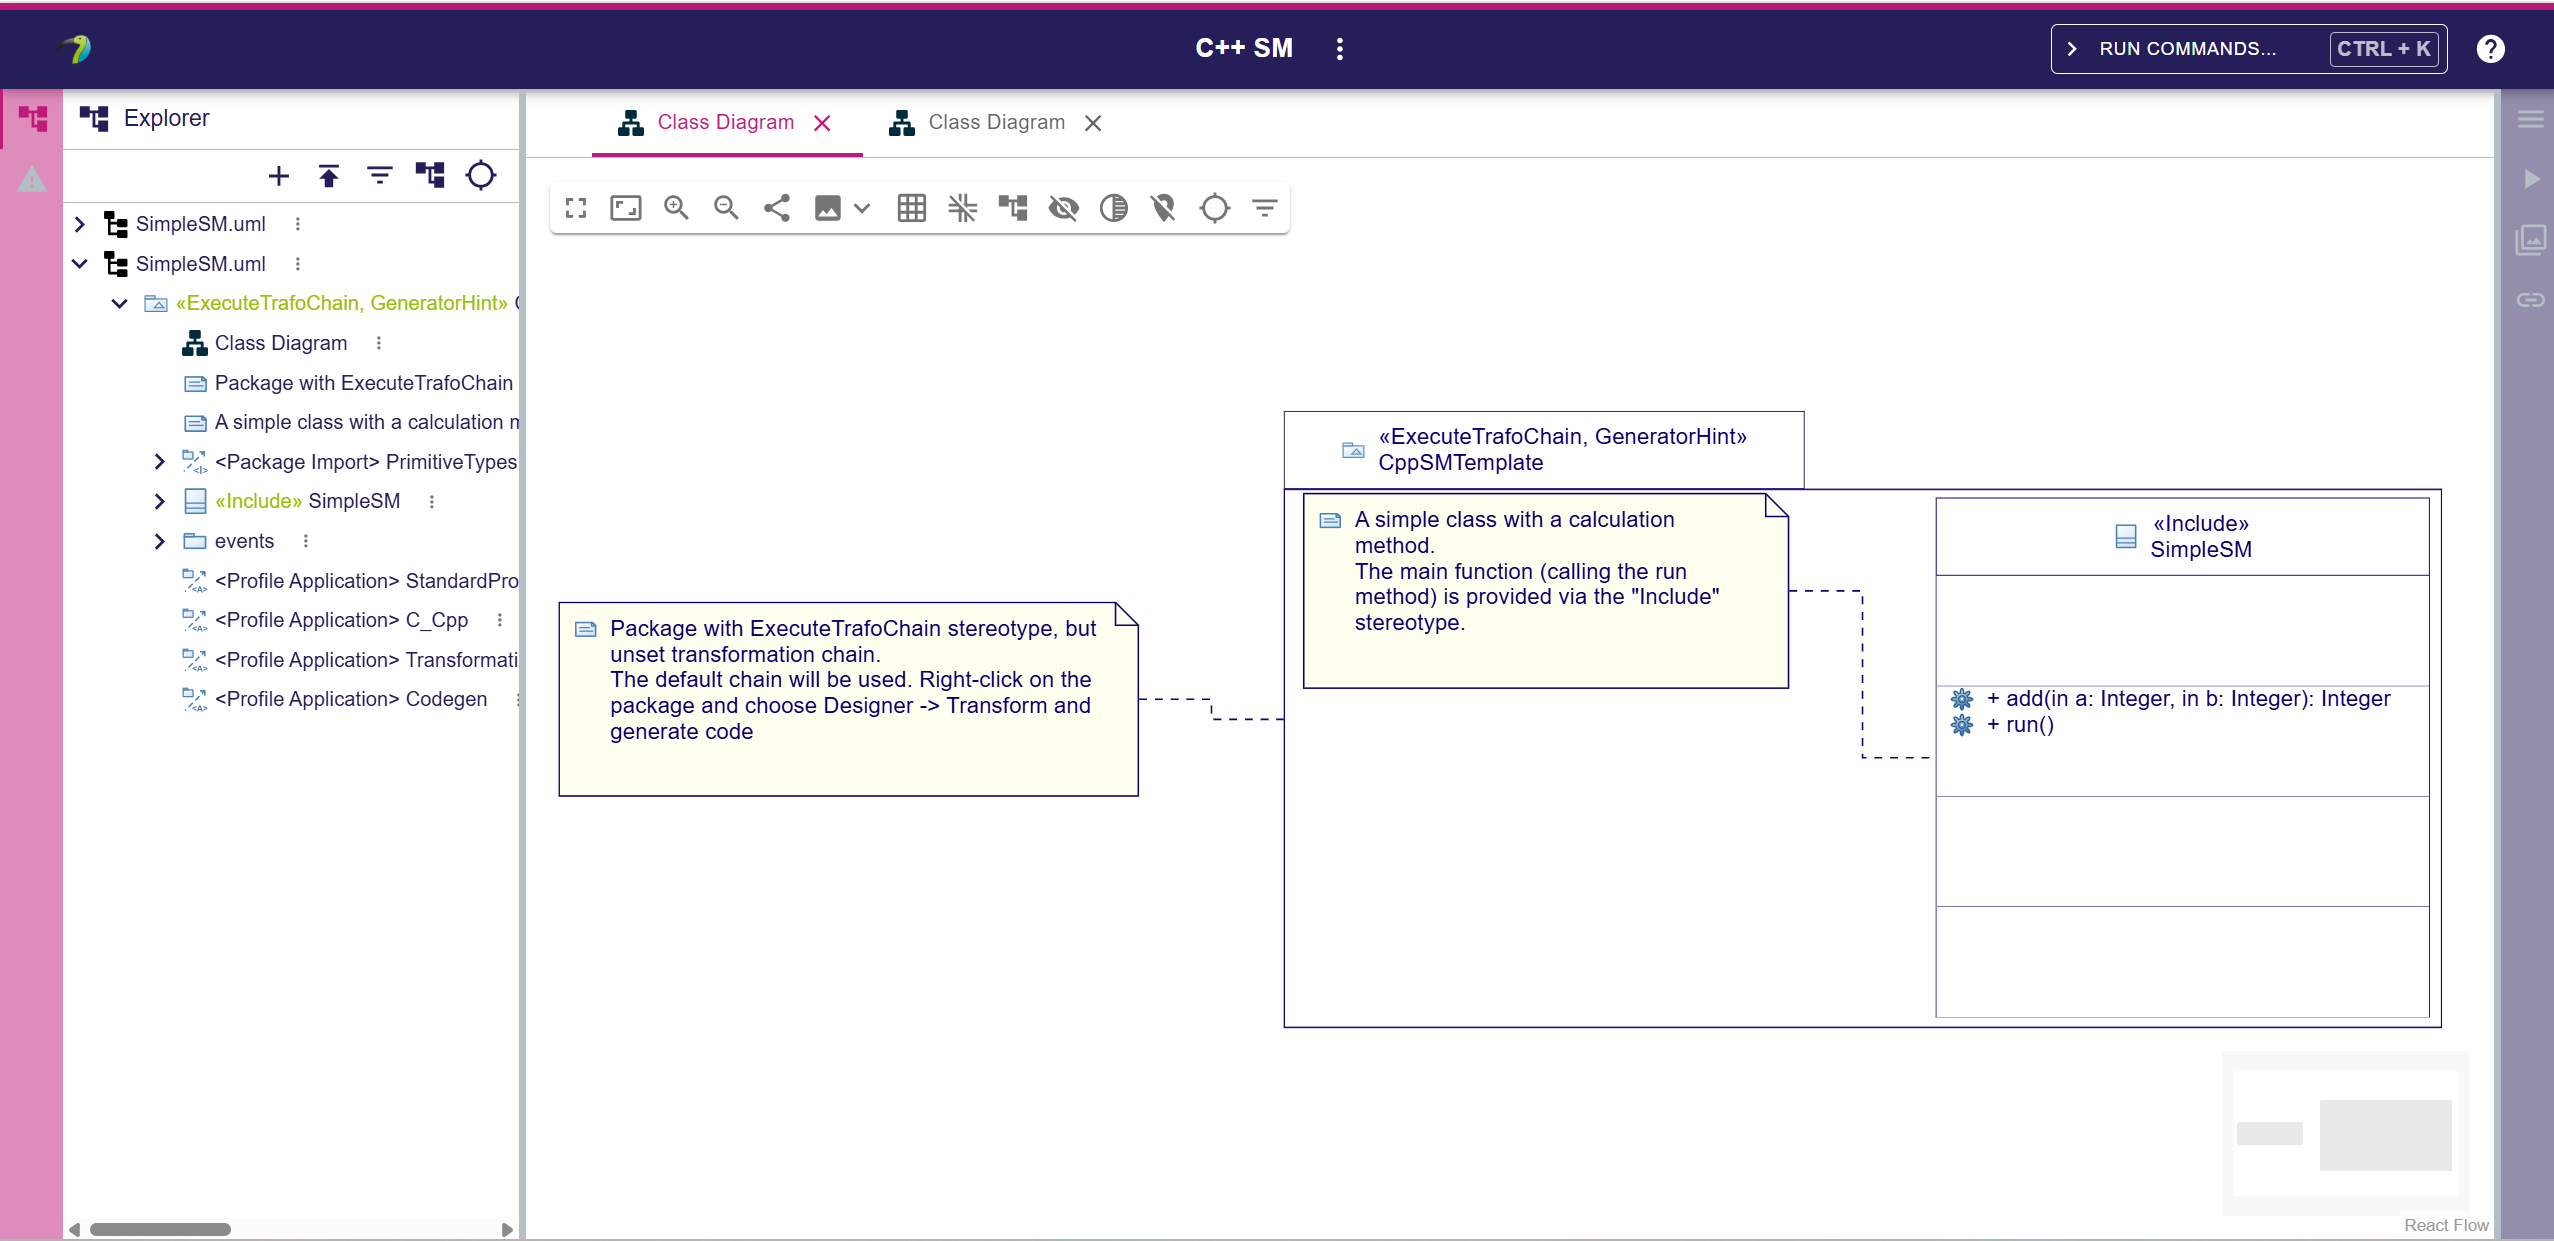
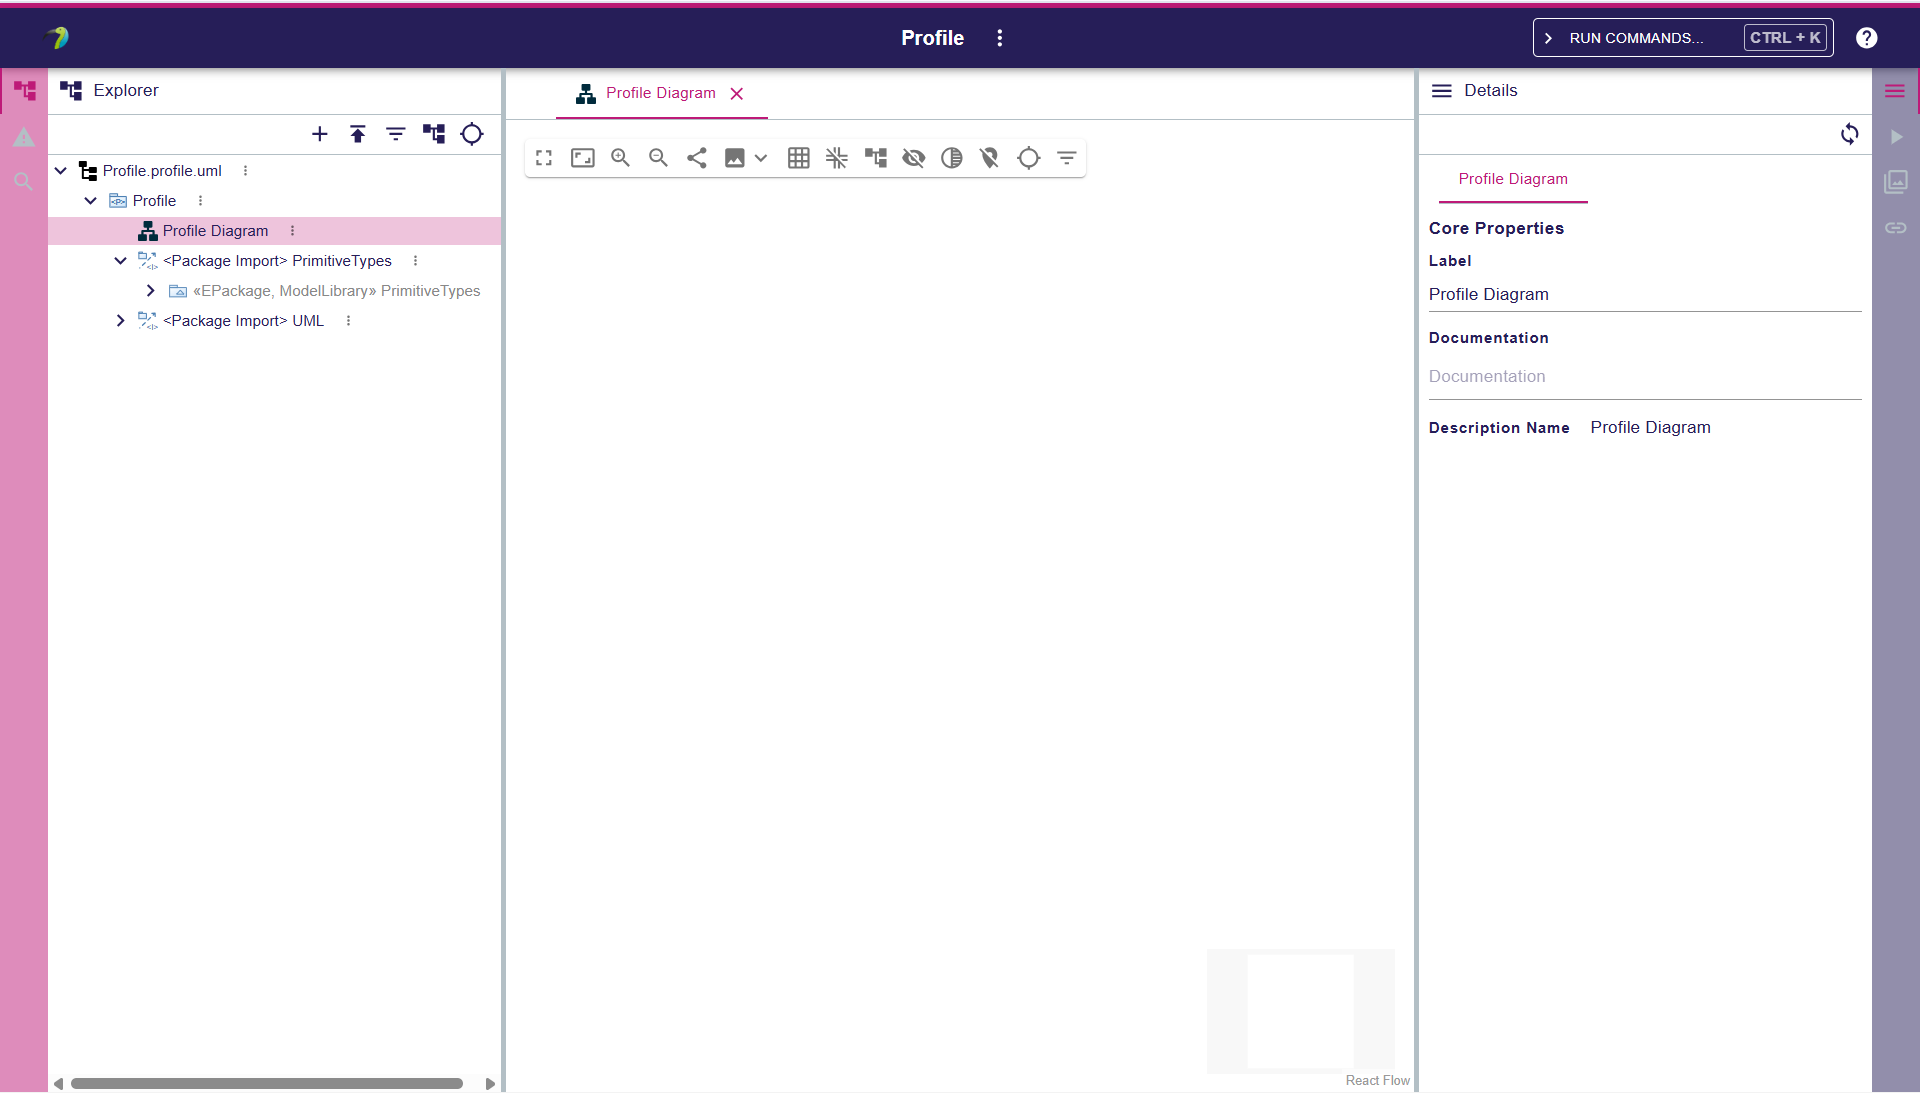
GL-285 [Project][UI] Remove blanck project and Sirius studio from Papyrus-Web Issue : https://gitlab.eclipse.org/eclipse/papyrus/org.eclipse.papyrus-web/-/issues/285

diff --git a/backend/papyrus-web-application/src/main/java/org/eclipse/papyrus/web/application/configuration/PapyrusProjectTemplateApplicationService.java b/backend/papyrus-web-application/src/main/java/org/eclipse/papyrus/web/application/configuration/PapyrusProjectTemplateApplicationService.java
@@ -1,0 +1,194 @@
+/*******************************************************************************
+ * Copyright (c) 2025 CEA LIST, Obeo.
+ *
+ * All rights reserved. This program and the accompanying materials
+ * are made available under the terms of the Eclipse Public License 2.0
+ * which accompanies this distribution, and is available at
+ * https://www.eclipse.org/legal/epl-2.0/
+ *
+ * SPDX-License-Identifier: EPL-2.0
+ *
+ * Contributors:
+ *  Obeo - Initial API and implementation
+ *  Dilan EESHVARAN ([email redacted]) - Issue 285
+ *******************************************************************************/
+package org.eclipse.papyrus.web.application.configuration;
+
+import java.util.ArrayList;
+import java.util.Collection;
+import java.util.Comparator;
+import java.util.List;
+import java.util.Map;
+import java.util.Objects;
+import java.util.Optional;
+import java.util.stream.Stream;
+
+import org.eclipse.papyrus.web.application.templates.projects.ProfileProjectTemplateProvider;
+import org.eclipse.papyrus.web.application.templates.projects.UMLProjectTemplateProvider;
+
+import org.eclipse.sirius.components.core.api.ErrorPayload;
+import org.eclipse.sirius.components.core.api.IPayload;
+import org.eclipse.sirius.web.application.capability.SiriusWebCapabilities;
+import org.eclipse.sirius.web.application.capability.services.api.ICapabilityEvaluator;
+import org.eclipse.sirius.web.application.project.dto.CreateProjectFromTemplateInput;
+import org.eclipse.sirius.web.application.project.dto.CreateProjectInput;
+import org.eclipse.sirius.web.application.project.dto.CreateProjectSuccessPayload;
+import org.eclipse.sirius.web.application.project.dto.ProjectTemplateContext;
+import org.eclipse.sirius.web.application.project.dto.ProjectTemplateDTO;
+import org.eclipse.sirius.web.application.project.services.api.IProjectApplicationService;
+import org.eclipse.sirius.web.application.project.services.api.IProjectTemplateApplicationService;
+import org.eclipse.sirius.web.application.project.services.api.IProjectTemplateProvider;
+import org.eclipse.sirius.web.application.project.services.api.ITemplateBasedProjectInitializer;
+import org.eclipse.sirius.web.application.project.services.api.ProjectTemplate;
+import org.eclipse.sirius.web.application.project.services.api.ProjectTemplateNature;
+import org.eclipse.sirius.web.domain.services.api.IMessageService;
+import org.springframework.context.annotation.Primary;
+import org.springframework.data.domain.Page;
+import org.springframework.data.domain.PageImpl;
+import org.springframework.data.domain.Pageable;
+import org.springframework.stereotype.Service;
+
+/**
+ * Custom implementation of IProjectTemplateApplicationService for Papyrus Web.
+ * This implementation provides custom ordering of project templates on the home page.
+ * The blank project template is excluded from the list of templates.
+ * 
+ * NOTE : This class overrides Sirius Web's ProjectTemplateApplicationService.
+ * When updating the Sirius Web dependency, check if IProjectTemplateApplicationService 
+ * has changed as it may require updating this class accordingly to avoid breaking the build.
+ * </p>
+ *
+ * @author sbegaudeau
+ */
+@Service
+@Primary
+public class PapyrusProjectTemplateApplicationService implements IProjectTemplateApplicationService {
+
+    // Custom ordering for project template cards on the home page.
+    // Templates not in this map will be sorted alphabetically after the ones in this map.
+    private static final Map<String, Integer> TEMPLATE_ORDER = Map.of(
+            UMLProjectTemplateProvider.UML_WITH_PRIMITIVES_TEMPLATE_ID, 1,
+            ProfileProjectTemplateProvider.PROFILE_WITH_PRIMITIVES_AND_UML_TEMPLATE_ID, 2,
+            UMLProjectTemplateProvider.EMPTY_UML_TEMPLATE, 3,
+            "UMLCppProject", 4
+    );
+
+    private final List<IProjectTemplateProvider> projectTemplateProviders;
+
+    private final IProjectApplicationService projectApplicationService;
+
+    private final ITemplateBasedProjectInitializer templateBasedProjectInitializer;
+
+    private final ICapabilityEvaluator capabilityEvaluator;
+
+    private final IMessageService messageService;
+
+    public PapyrusProjectTemplateApplicationService(
+            List<IProjectTemplateProvider> projectTemplateProviders,
+            IProjectApplicationService projectApplicationService,
+            ITemplateBasedProjectInitializer templateBasedProjectInitializer,
+            ICapabilityEvaluator capabilityEvaluator,
+            IMessageService messageService) {
+        this.projectTemplateProviders = Objects.requireNonNull(projectTemplateProviders);
+        this.projectApplicationService = Objects.requireNonNull(projectApplicationService);
+        this.templateBasedProjectInitializer = Objects.requireNonNull(templateBasedProjectInitializer);
+        this.capabilityEvaluator = Objects.requireNonNull(capabilityEvaluator);
+        this.messageService = Objects.requireNonNull(messageService);
+    }
+
+    @Override
+    public Page<ProjectTemplateDTO> findAll(Pageable pageable, String context) {
+        return switch (context) {
+            case ProjectTemplateContext.PROJECT_BROWSER -> this.handleProjectBrowser(pageable);
+            case ProjectTemplateContext.PROJECT_TEMPLATE_MODAL -> this.handleProjectTemplateModal(pageable);
+            default -> this.handleProjectTemplateModal(pageable);
+        };
+    }
+
+    private List<ProjectTemplate> getProjectTemplatesSortedByName() {
+        return this.projectTemplateProviders.stream()
+                .map(IProjectTemplateProvider::getProjectTemplates)
+                .flatMap(List::stream)
+                .sorted(Comparator
+                        .comparingInt((ProjectTemplate pt) -> TEMPLATE_ORDER.getOrDefault(pt.id(), Integer.MAX_VALUE))
+                        .thenComparing(ProjectTemplate::label))
+                .toList();
+    }
+
+    // excludes the "create-project" template id to remove the "+ Blank Project" card from the menu.
+    private Page<ProjectTemplateDTO> handleProjectBrowser(Pageable pageable) {
+        var projectTemplates = this.getProjectTemplatesSortedByName();
+
+        // include only "upload-project" and "browse-all-project-templates" templates
+        List<ProjectTemplate> siriusWebProjectTemplate = new ArrayList<>();
+        this.getUploadProject().ifPresent(siriusWebProjectTemplate::add);
+        this.getBrowseAllProjectTemplates().ifPresent(siriusWebProjectTemplate::add);
+
+        int startIndex = (int) pageable.getOffset() * pageable.getPageSize();
+        int endIndex = Math.min(((int) pageable.getOffset() + 1) * pageable.getPageSize(), projectTemplates.size() + siriusWebProjectTemplate.size());
+        var projectTemplateDTOs = Stream.concat(projectTemplates.subList(startIndex, endIndex - siriusWebProjectTemplate.size()).stream(), siriusWebProjectTemplate.stream())
+                .map(projectTemplate -> new ProjectTemplateDTO(projectTemplate.id(), projectTemplate.label(), projectTemplate.imageURL(), projectTemplate.natures().stream().map(ProjectTemplateNature::id).toList()))
+                .toList();
+
+        return new PageImpl<>(projectTemplateDTOs, pageable, projectTemplates.size());
+    }
+
+    private Page<ProjectTemplateDTO> handleProjectTemplateModal(Pageable pageable) {
+        var projectTemplates = this.getProjectTemplatesSortedByName();
+
+        int startIndex = (int) pageable.getOffset() * pageable.getPageSize();
+        int endIndex = Math.min(((int) pageable.getOffset() + 1) * pageable.getPageSize(), projectTemplates.size());
+
+        var projectTemplateDTOs = projectTemplates.subList(startIndex, endIndex).stream()
+                .map(projectTemplate -> new ProjectTemplateDTO(projectTemplate.id(), projectTemplate.label(), projectTemplate.imageURL(), projectTemplate.natures().stream().map(ProjectTemplateNature::id).toList()))
+                .toList();
+
+        return new PageImpl<>(projectTemplateDTOs, pageable, projectTemplates.size());
+    }
+
+    private Optional<ProjectTemplate> getUploadProject() {
+        Optional<ProjectTemplate> result = Optional.empty();
+        var canCreate = this.capabilityEvaluator.hasCapability(SiriusWebCapabilities.PROJECT, null, SiriusWebCapabilities.Project.UPLOAD);
+        if (canCreate) {
+            result = Optional.of(new ProjectTemplate("upload-project", "", "", List.of()));
+        }
+        return result;
+    }
+
+    private Optional<ProjectTemplate> getBrowseAllProjectTemplates() {
+        Optional<ProjectTemplate> result = Optional.empty();
+        var aTemplateExists = this.projectTemplateProviders.stream().mapToLong(providers -> providers.getProjectTemplates().size()).sum() > 0;
+        if (aTemplateExists) {
+            result = Optional.of(new ProjectTemplate("browse-all-project-templates", "", "", List.of()));
+        }
+        return result;
+    }
+
+    @Override
+    public IPayload createProjectFromTemplate(CreateProjectFromTemplateInput input) {
+        IPayload payload = null;
+
+        var optionalProjectTemplate = this.projectTemplateProviders.stream()
+                .map(IProjectTemplateProvider::getProjectTemplates)
+                .flatMap(Collection::stream)
+                .filter(projectTemplate -> projectTemplate.id().equals(input.templateId()))
+                .findFirst();
+        if (optionalProjectTemplate.isPresent()) {
+            var projectTemplate = optionalProjectTemplate.get();
+            var natures = projectTemplate.natures().stream()
+                    .map(ProjectTemplateNature::id)
+                    .toList();
+            var projectCreationPayload = this.projectApplicationService.createProject(new CreateProjectInput(input.id(), projectTemplate.label(), natures, List.of()));
+            if (projectCreationPayload instanceof CreateProjectSuccessPayload createProjectSuccessPayload) {
+                var projectId = createProjectSuccessPayload.project().id();
+                payload = this.templateBasedProjectInitializer.initializeProjectFromTemplate(input, projectId, input.templateId());
+            } else {
+                payload = projectCreationPayload;
+            }
+        } else {
+            payload = new ErrorPayload(input.id(), this.messageService.notFound());
+        }
+
+        return payload;
+    }
+}